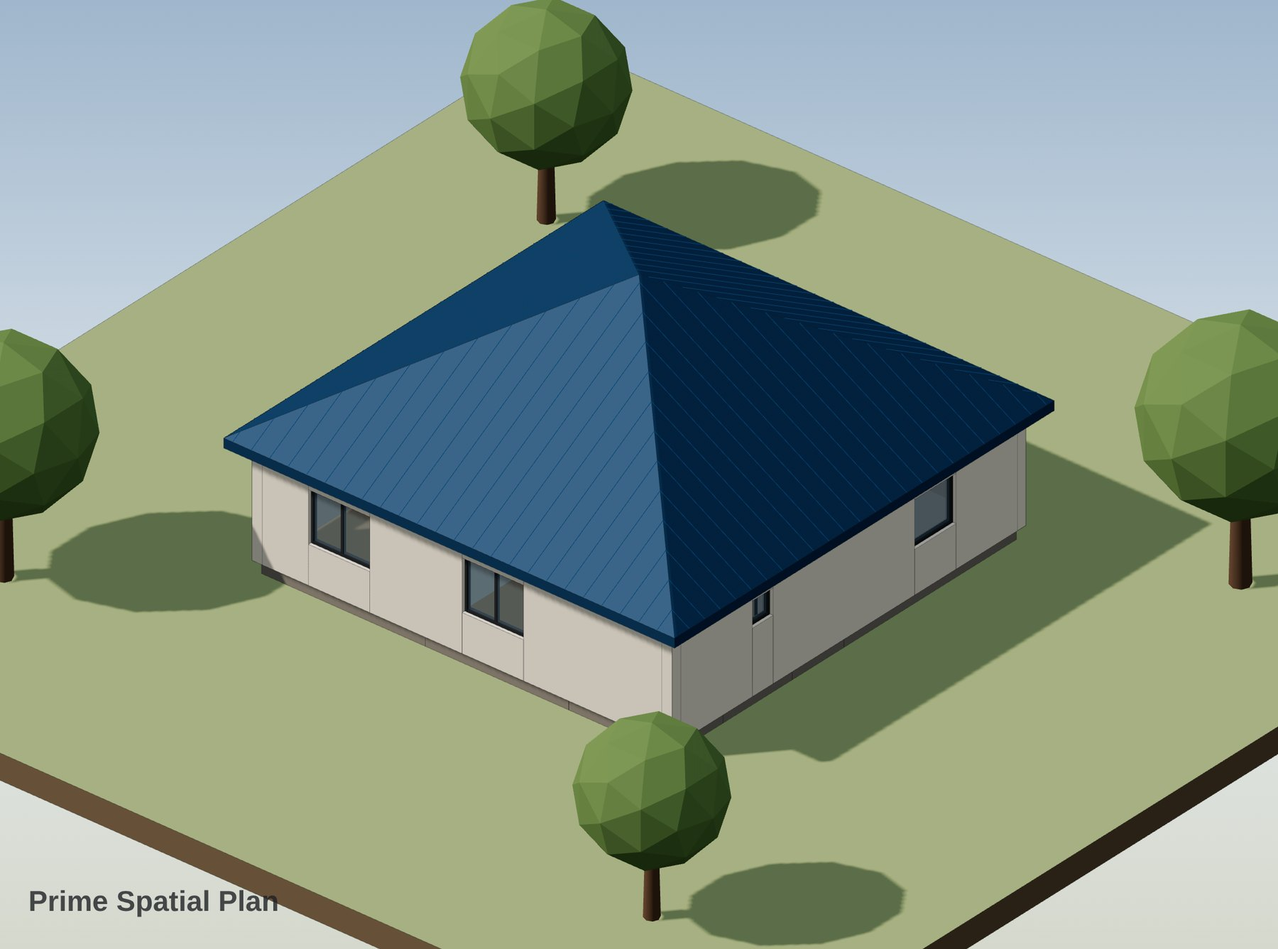
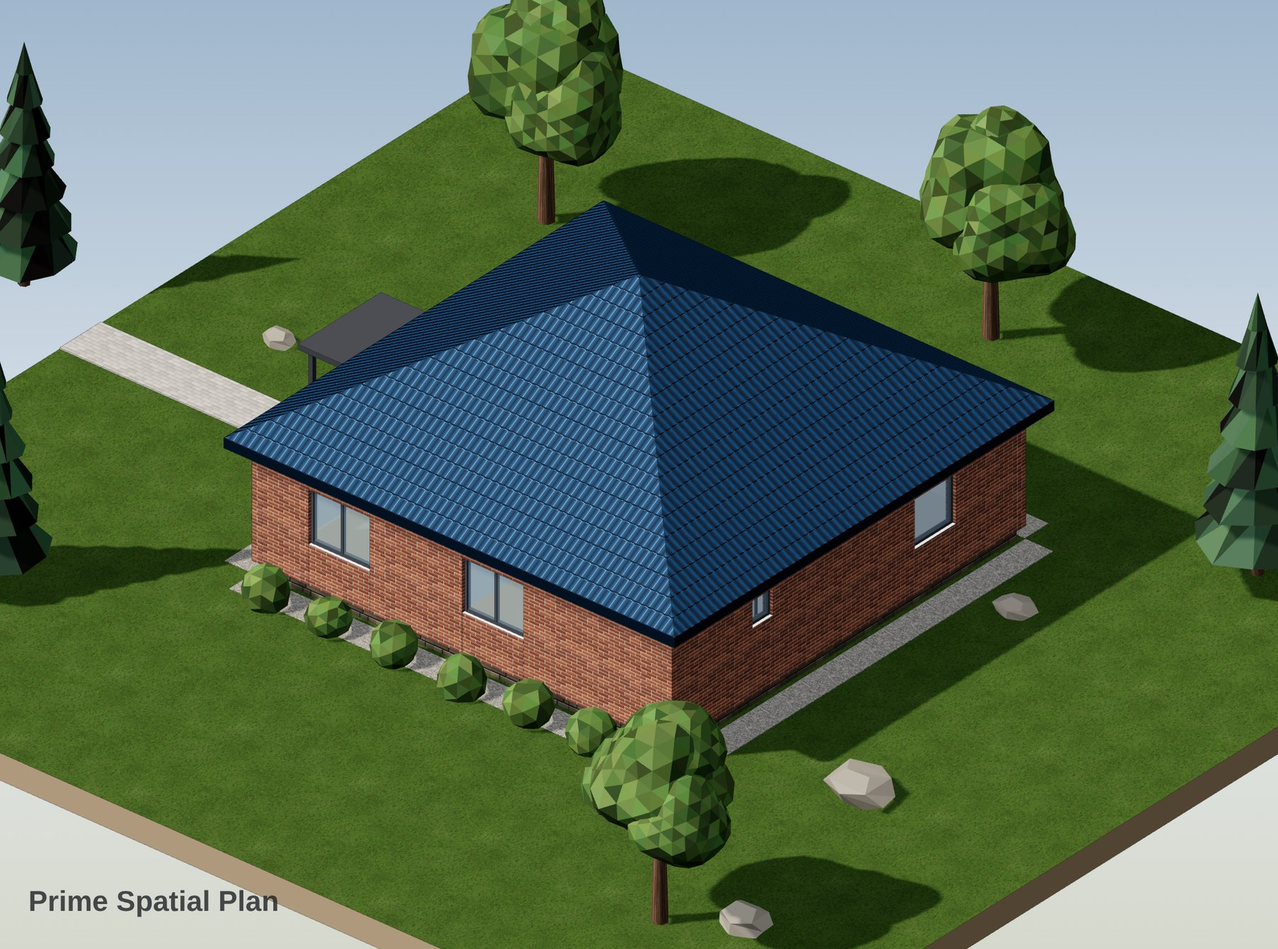
3D: eye-level perspective with sky, forest and haze; dark timber + stone facade, decking, gravel, boulders; plan renders updated
Claude-Session: https://claude.ai/code/session_01UG1vAo71nibs4gLHwPWaPt

diff --git a/assets/planner3d.js b/assets/planner3d.js
@@ -5,7 +5,7 @@
 import * as THREE from './vendor/three.module.min.js';
 import {OrbitControls} from './vendor/OrbitControls.js';
 import {RoomEnvironment} from './vendor/RoomEnvironment.js';
-import {T, FACADE_FLAT} from './planner-tex.js?v=1';
+import {T, FACADE_FLAT} from './planner-tex.js?v=2';
 
 const FH = 3, SL = .25, PL = .3, T30 = Math.tan(30 * Math.PI / 180);
 const near = (a, b) => Math.abs(a - b) < 1e-4;
@@ -17,10 +17,11 @@ export function create(canvas, ui){
   renderer.shadowMap.enabled = true; renderer.shadowMap.type = THREE.PCFSoftShadowMap;
   renderer.outputColorSpace = THREE.SRGBColorSpace;
   const scene = new THREE.Scene();
-  const cam = new THREE.OrthographicCamera(-10, 10, 10, -10, -1000, 2000);
+  const ocam = new THREE.OrthographicCamera(-10, 10, 10, -10, -1000, 2000), pcam = new THREE.PerspectiveCamera(36, 1, .1, 1500);
+  let cam = ocam, persp = false;
   const ctl = new OrbitControls(cam, canvas);
   ctl.enableDamping = true; ctl.dampingFactor = .12; ctl.maxPolarAngle = Math.PI * .5; ctl.screenSpacePanning = true;
-  ctl.minZoom = .3; ctl.maxZoom = 8; ctl.rotateSpeed = .8;
+  ctl.minZoom = .3; ctl.maxZoom = 8; ctl.rotateSpeed = .8; ctl.minDistance = 4; ctl.maxDistance = 160;
   const hemi = new THREE.HemisphereLight(0xe8eef5, 0x8d8f80, 1.15); scene.add(hemi);
   const amb = new THREE.AmbientLight(0xffffff, 0); scene.add(amb);
   const sun = new THREE.DirectionalLight(0xfff1df, 2.3); sun.castShadow = true;
@@ -28,7 +29,7 @@ export function create(canvas, ui){
   scene.add(sun, sun.target);
   const pmrem = new THREE.PMREMGenerator(renderer), envTex = pmrem.fromScene(new RoomEnvironment(), .04).texture;
   let root = new THREE.Group(); scene.add(root);
-  let MODEL = null, ENTRIES = [], PAVED = [];
+  let MODEL = null, ENTRIES = [], PAVED = [], PERIM = [];
   let frustum = 24, fbase = 24, fitted = false, M = null, LM = null, anim = null;
   const memo = {};
 
@@ -51,7 +52,8 @@ export function create(canvas, ui){
     const rm = m.roof.mat || 'seam', vc = (c) => hid ? new THREE.MeshBasicMaterial({color:'#ffffff', polygonOffset:true, polygonOffsetFactor:1, polygonOffsetUnits:1})
       : real ? new THREE.MeshStandardMaterial({vertexColors:true, flatShading:true, roughness:.95, envMapIntensity:.25}) : new THREE.MeshLambertMaterial({vertexColors:true, flatShading:true});
     const R = {
-      F:{plaster:tx('plaster', FACADE_FLAT.plaster), brick:tx('brick', FACADE_FLAT.brick, {roughness:.92}), wood:tx('wood', FACADE_FLAT.wood, {roughness:.7}), stone:tx('stone', FACADE_FLAT.stone)},
+      F:{plaster:tx('plaster', FACADE_FLAT.plaster), brick:tx('brick', FACADE_FLAT.brick, {roughness:.92}), wood:tx('wood', FACADE_FLAT.wood, {roughness:.7}), stone:tx('stone', FACADE_FLAT.stone), timber:tx('timber', FACADE_FLAT.timber, {roughness:.8})},
+      gravel:tx('gravel', '#c9c6bf', {roughness:1, env:.2}), deck:tx('deck', '#c9a77c', {roughness:.8}), rock:real ? new THREE.MeshStandardMaterial({color:'#9b968d', roughness:.95, flatShading:true, envMapIntensity:.3}) : mk('#c9c5bd', {flatShading:true}),
       porch:tx('stone', '#d4cfc6', {tint:'#e4e0d8'}), canopy:mk(real ? '#33363b' : '#55595f', {roughness:.5}),
       leaf:vc(), conifer:vc(),
       wallExt: mk(real ? '#efe8dc' : '#f1eee8', {roughness:.92}),
@@ -69,7 +71,7 @@ export function create(canvas, ui){
       rail: mk(real ? '#f2eee7' : '#f1eee8'),
       roof: tx(rm, m.roof.color, {tint:m.roof.color, roughness:rm === 'shingle' ? .9 : .42, metalness:rm === 'shingle' ? 0 : .45, side:THREE.DoubleSide, env:.7}),
       seam: new THREE.LineBasicMaterial({color:hid ? '#9a9da2' : new THREE.Color(m.roof.color).multiplyScalar(.62), transparent:true, opacity:hid ? .6 : .9}),
-      grass: real ? tx('grass', '#dfe3d6', {roughness:1, env:.15, tint:'#c4cab4'}) : mk('#dfe3d6', {hid:'#ffffff'}),
+      grass: real ? tx('grass', '#dfe3d6', {roughness:1, env:.15, tint:'#aab494'}) : mk('#dfe3d6', {hid:'#ffffff'}),
       earth: mk(real ? '#7b6a55' : '#c9c1b4', {roughness:1, hid:'#ffffff'}),
       pave: tx('pavers', '#d2cfc8', {roughness:.95}),
       trunk: tx('bark', '#a9998a'),
@@ -158,7 +160,13 @@ export function create(canvas, ui){
         if(r.type === 'rail'){ wbox(L.ori, L.c, a, b, t, z0, z0 + Math.min(1.05, H), mat); return; }
         const o = r.op, ext = r.type === 'ext', ct = cutTop ? M.cut : null;
         const piece = (y0, y1, top) => ext ? ewall(L.ori, L.c, a, b, t, y0, y1, r.side, i, top ? ct : null) : wbox(L.ori, L.c, a, b, t, y0, y1, top ? mat : wm);
-        if(!o){ piece(z0, z0 + H, true); return; }
+        if(ext && i === 0) PERIM.push({ori:L.ori, c:L.c, a:r.a, b:r.b, out:-(r.side || 1)});
+        if(!o){
+          if(ext && MODEL.facade === 'timber' && r.b - r.a > 1.3){ const cw = Math.min(.9, (r.b - r.a) / 2 - .1), sa = !prev ? a + cw : a, sb = !next ? b - cw : b;
+            if(!prev) wbox(L.ori, L.c, a, sa, t, z0, z0 + H, extMats(L.ori, r.side, M.F.stone, cutTop ? M.cut : null));
+            if(!next) wbox(L.ori, L.c, sb, b, t, z0, z0 + H, extMats(L.ori, r.side, M.F.stone, cutTop ? M.cut : null));
+            wbox(L.ori, L.c, sa, sb, t, z0, z0 + H, extMats(L.ori, r.side, M.F.timber, cutTop ? M.cut : null)); return; }
+          piece(z0, z0 + H, true); return; }
         const s = Math.min(o.s, H), hd = Math.min(o.h, H);
         if(ext && i === 0 && o.k === 'door') ENTRIES.push({ori:L.ori, c:L.c, a:r.a, b:r.b, out:-(r.side || 1), h:o.h});
         if(s > 0) piece(z0, z0 + s, s >= H);
@@ -247,9 +255,10 @@ export function create(canvas, ui){
   function porch(e, b, pad){
     const w = e.b - e.a, cu = (e.a + e.b) / 2, W = Math.max(w + 1.2, 2), D = 1.4, o = e.out;
     const c0 = e.c + o * .125, c1 = c0 + o * D, c2 = c1 + o * .32, c3 = c2 + o * .32;
-    prect(e.ori, cu - W / 2, cu + W / 2, c0, c1, -PL, 0, M.porch);
-    prect(e.ori, cu - W / 2, cu + W / 2, c1, c2, -PL, -.1, M.porch);
-    prect(e.ori, cu - W / 2, cu + W / 2, c2, c3, -PL, -.2, M.porch);
+    const pm = MODEL.facade === 'timber' || MODEL.facade === 'wood' ? M.deck : M.porch; if(pm === M.deck) PAVED.push(e.ori === 'h' ? [cu - W / 2, cu + W / 2, Math.min(c0, c3), Math.max(c0, c3)] : [Math.min(c0, c3), Math.max(c0, c3), cu - W / 2, cu + W / 2]);
+    prect(e.ori, cu - W / 2, cu + W / 2, c0, c1, -PL, 0, pm);
+    prect(e.ori, cu - W / 2, cu + W / 2, c1, c2, -PL, -.1, pm);
+    prect(e.ori, cu - W / 2, cu + W / 2, c2, c3, -PL, -.2, pm);
     const ch = Math.max(e.h + .3, 2.45);
     prect(e.ori, cu - W / 2 - .1, cu + W / 2 + .1, c0, c1 + o * .15, ch, ch + .12, M.canopy);
     [-1, 1].forEach(k => prect(e.ori, cu + k * (W / 2 - .05) - .05, cu + k * (W / 2 - .05) + .05, c1 - o * .02, c1 - o * .12, 0, ch, M.canopy));
@@ -270,22 +279,39 @@ export function create(canvas, ui){
     const y0 = -PL;
     if(kind === 'conifer'){
       part(new THREE.CylinderGeometry(.08 * s, .13 * s, 1.2 * s, 7), M.trunk, x, y0 + .6 * s, z, false);
-      for(let k = 0; k < 4; k++){ const g = paint(lumpy(new THREE.ConeGeometry((1.25 - .27 * k) * s, 1.55 * s, 9, 2).toNonIndexed(), seed + k, .06), '#3c5a37', seed * 7 + k);
-        part(g, M.conifer, x, y0 + (1.35 + k * .82) * s, z, edges); }
+      for(let k = 0; k < 6; k++){ const g = paint(lumpy(new THREE.ConeGeometry((1.15 - .16 * k) * s, 1.3 * s, 10, 2).toNonIndexed(), seed + k, .07), '#34503a', seed * 7 + k);
+        part(g, M.conifer, x, y0 + (1.4 + k * .7) * s, z, edges); }
       return; }
     part(new THREE.CylinderGeometry(.09 * s, .15 * s, 2 * s, 7), M.trunk, x, y0 + s, z, false);
     const r = rnd(seed); [[0, 2.75, 0, 1.15], [.62, 2.35, .25, .82], [-.55, 2.45, -.3, .86], [.1, 3.3, -.15, .78]].forEach((q, k) => {
-      const g = paint(lumpy(new THREE.IcosahedronGeometry(q[3] * s * (.9 + r() * .2), 2), seed + k * 3, .13), '#5c7d3c', seed * 13 + k);
+      const g = paint(lumpy(new THREE.IcosahedronGeometry(q[3] * s * (.9 + r() * .2), 3), seed + k * 3, .13), '#56743a', seed * 13 + k);
       part(g, M.leaf, x + q[0] * s, y0 + q[1] * s, z + q[2] * s, edges); });
   }
   function free(x, z, rad, b){ if(x > b[0] - rad && x < b[2] + rad && z > b[1] - rad && z < b[3] + rad) return false;
     return !PAVED.some(p => x > p[0] - rad && x < p[1] + rad && z > p[2] - rad && z < p[3] + rad); }
+  /* a ring of spruce and pine behind and around the plot, instanced */
+  function forest(b, pad){
+    const parts = [], r = rnd(91);
+    for(let k = 0; k < 7; k++){ const g = lumpy(new THREE.ConeGeometry(1.15 - .15 * k, 1.3, 9, 1).toNonIndexed(), 5 + k, .07); g.translate(0, 1.5 + k * .72, 0); paint(g, '#2f4a33', 40 + k); parts.push(g); }
+    const pos = [], col = []; parts.forEach(g => { pos.push(...g.attributes.position.array); col.push(...g.attributes.color.array); });
+    const cg = new THREE.BufferGeometry(); cg.setAttribute('position', new THREE.Float32BufferAttribute(pos, 3)); cg.setAttribute('color', new THREE.Float32BufferAttribute(col, 3)); cg.computeVertexNormals();
+    const tg = new THREE.CylinderGeometry(.07, .12, 2, 6); tg.translate(0, 1, 0);
+    const cx = (b[0] + b[2]) / 2, cz = (b[1] + b[3]) / 2, R0 = Math.max(b[2] - b[0], b[3] - b[1]) / 2 + pad + 5, list = [];
+    for(let i = 0; i < 240 && list.length < 140; i++){ const an = r() * Math.PI * 2, d = R0 + 2 + r() * 38, x = cx + Math.cos(an) * d, z = cz + Math.sin(an) * d;
+      if(z > cz + 4 && Math.abs(x - cx) < R0 + 6 && d < R0 + 24) continue; list.push([x, z, 1.6 + r() * 2.4, r() * 6]); }
+    const im = new THREE.InstancedMesh(cg, M.conifer, list.length), it = new THREE.InstancedMesh(tg, M.trunk, list.length), mt = new THREE.Matrix4(), q = new THREE.Quaternion(), sc = new THREE.Vector3(), p = new THREE.Vector3();
+    list.forEach((t, i) => { q.setFromAxisAngle(new THREE.Vector3(0, 1, 0), t[3]); sc.set(t[2] * .75, t[2] * 1.45, t[2] * .75); p.set(t[0], -PL, t[1]); mt.compose(p, q, sc); im.setMatrixAt(i, mt); it.setMatrixAt(i, mt); });
+    im.castShadow = false; root.add(im, it);
+  }
   function landscape(b, pad, m){
     const edges = m.style !== 'realistic';
     const spots = [[b[0] - 4, b[1] - 3, 1.25, 'leaf'], [b[2] + 4.2, b[1] - 2, 1.1, 'conifer'], [b[2] + 3.6, b[3] + 4.6, 1.15, 'leaf'], [b[0] - 3.8, b[3] + 3.4, 1.0, 'conifer'],
       [b[0] - 5.5, (b[1] + b[3]) / 2, .95, 'conifer'], [(b[0] + b[2]) / 2, b[1] - 5.2, 1.2, 'leaf']];
     spots.forEach((q, k) => { let [x, z] = q; for(let t = 0; t < 6 && !free(x, z, 1.4, b); t++){ x += (x < (b[0] + b[2]) / 2 ? -1 : 1) * .9; }
       if(free(x, z, 1.4, b)) tree(x, z, q[2], q[3], 17 + k * 31, edges); });
+    /* boulders */
+    const rr = rnd(57); for(let k = 0; k < 7; k++){ const x = b[0] - pad + 1 + rr() * (b[2] - b[0] + 2 * pad - 2), z = b[1] - pad + 1 + rr() * (b[3] - b[1] + 2 * pad - 2), s = .25 + rr() * .45;
+      if(!free(x, z, 1, b)) continue; const g = lumpy(new THREE.DodecahedronGeometry(s, 0), k * 7, .2); g.scale(1.3, .6, 1); part(g, M.rock, x, -PL + s * .25, z, edges); }
     /* shrubs along the front facade, clear of paths */
     for(let x = b[0] + .7; x < b[2] - .5; x += 1.6){ const z = b[3] + .75;
       if(PAVED.some(p => x > p[0] - .7 && x < p[1] + .7 && z > p[2] - .7 && z < p[3] + .7)) continue;
@@ -297,7 +323,8 @@ export function create(canvas, ui){
     root.traverse(o => { if(o.geometry) o.geometry.dispose(); });
     scene.remove(root); root = new THREE.Group(); scene.add(root);
     if(M) Object.values(M).forEach(x => { if(x && x.dispose) x.dispose(); });
-    MODEL = m; ENTRIES = []; PAVED = [];
+    MODEL = m; ENTRIES = []; PAVED = []; PERIM = [];
+    persp = !!m.persp; cam = persp ? pcam : ocam; ctl.object = cam;
     m.nfl = m.floors.filter(f => f.rooms.some(r => r.type !== 'balcony')).length || 1;
     M = mats(m.style, m);
     LM = new THREE.LineBasicMaterial({color:'#1b1d21', transparent:true, opacity:m.style === 'realistic' ? .3 : m.style === 'shaded' ? .8 : 1});
@@ -318,7 +345,7 @@ export function create(canvas, ui){
 
     /* site pad, trees, paving */
     const pad = 8;
-    const site = box(b[0] - pad, b[2] + pad, -PL - .6, -PL, b[1] - pad, b[3] + pad, [M.earth, M.earth, M.grass, M.earth, M.earth, M.earth], {cast:false});
+    const site = (persp && real) ? null : box(b[0] - pad, b[2] + pad, -PL - .6, -PL, b[1] - pad, b[3] + pad, [M.earth, M.earth, M.grass, M.earth, M.earth, M.earth], {cast:false, noEdge:persp});
     if(site) site.receiveShadow = true;
     if(m.floors[0]) m.floors[0].ops.forEach(o => {
       if(o.k !== 'garage') return;
@@ -340,13 +367,22 @@ export function create(canvas, ui){
     });
     if(!m.cut && top >= 0) roof(m, top, top * FH + FH);
     if(m.porch) ENTRIES.forEach(e => porch(e, b, pad));
+    /* gravel drip strip around the ground floor */
+    if(real) PERIM.forEach(e => prect(e.ori, e.a - .1, e.b + .1, e.c + e.out * .13, e.c + e.out * .8, -PL, -PL + .02, M.gravel, {cast:false, noEdge:true}));
     landscape(b, pad, m);
+    /* eye-level surroundings: far lawn, forest, sky and haze */
+    scene.background = null; scene.fog = null;
+    if(persp && real){ scene.background = T('sky').map; scene.fog = new THREE.Fog('#dfe7ec', 28, 150);
+      const gg = new THREE.PlaneGeometry(600, 600); gg.rotateX(-Math.PI / 2); const gm = new THREE.Mesh(gg, M.grass); gm.position.set((b[0] + b[2]) / 2, -PL, (b[1] + b[3]) / 2); wuv(gg, gm.position); gm.receiveShadow = true; root.add(gm);
+      forest(b, pad); }
 
     /* camera and sun fit */
     const cx = (b[0] + b[2]) / 2, cz = (b[1] + b[3]) / 2, hgt = (top + 1) * FH + 2, diag = Math.hypot(b[2] - b[0] + 2 * pad, b[3] - b[1] + 2 * pad, hgt);
     sun.position.set(cx - 22, 34, cz + 26); sun.target.position.set(cx, 0, cz);
     const sc = sun.shadow.camera, ss = diag * .75; sc.left = -ss; sc.right = ss; sc.top = ss; sc.bottom = -ss; sc.near = 1; sc.far = 140; sc.updateProjectionMatrix();
     const key = [b.map(v => Math.round(v)).join(','), top].join('|');
+    memo.pd = Math.max(16, Math.hypot(b[2] - b[0], b[3] - b[1]) * 1.55 + 6);
+    if(memo.persp !== persp){ memo.persp = persp; if(fitted){ size(); home(false, cx, hgt * .3, cz); } }
     if(!fitted || key !== memo.key){ fbase = Math.max(11, Math.hypot(b[2] - b[0], b[3] - b[1], hgt) * 1.18); if(!fitted) home(false, cx, hgt * .3, cz); fitted = true; }
     memo.key = key; memo.center = [cx, hgt * .3, cz];
     size(); req();
@@ -354,7 +390,7 @@ export function create(canvas, ui){
 
   /* ---------- camera ---------- */
   function setDir(dir, animate){
-    const tgt = ctl.target.clone(), dist = 120, to = tgt.clone().add(dir.clone().normalize().multiplyScalar(dist));
+    const tgt = ctl.target.clone(), dist = persp ? (memo.pd || 30) : 120, to = tgt.clone().add(dir.clone().normalize().multiplyScalar(dist));
     if(!animate){ cam.position.copy(to); cam.up.set(0, 1, 0); cam.lookAt(tgt); ctl.update(); req(); return; }
     const from = cam.position.clone().sub(tgt), f2 = to.clone().sub(tgt), t0 = performance.now();
     anim = () => { const k = Math.min(1, (performance.now() - t0) / 450), e = k < .5 ? 2 * k * k : 1 - Math.pow(-2 * k + 2, 2) / 2;
@@ -365,12 +401,15 @@ export function create(canvas, ui){
   function home(animate, x, y, z){
     if(x !== undefined) ctl.target.set(x, y, z); else if(memo.center) ctl.target.set(...memo.center);
     cam.zoom = 1; cam.updateProjectionMatrix();
+    if(persp){ ctl.target.y = 1.6; setDir(new THREE.Vector3(Math.sin(.62), .17, Math.cos(.62)), animate); return; }
     setDir(new THREE.Vector3(Math.sin(.7), .62, Math.cos(.7)), animate);
   }
   function size(){
     const r = canvas.parentElement.getBoundingClientRect(), w = Math.max(10, r.width), h = Math.max(10, r.height), a = w / h;
     frustum = a < 1.1 ? fbase * 1.1 / a * .82 : fbase;
     renderer.setSize(w, h, false);
+    pcam.aspect = a; pcam.fov = a < 1 ? 58 : 36; pcam.updateProjectionMatrix();
+    cam = persp ? pcam : ocam; if(persp) return;
     cam.left = -frustum * a / 2; cam.right = frustum * a / 2; cam.top = frustum / 2; cam.bottom = -frustum / 2; cam.updateProjectionMatrix();
   }
   let pending = false;

diff --git a/assets/planner.js b/assets/planner.js
@@ -22,7 +22,7 @@
         confirmClear:'Дахин дарж бүх зургийг устгана', saved:'Хадгалагдсан', addFloor:'+ Давхар', delFloor:'Давхар устгах',
         door:'Хаалга', win:'Цонх', garage:'Гаражийн хаалга', doors:'Хаалга', wins:'Цонх', roof:'Дээвэр', autoOn:'Автомат байрлал',
         rt:{auto:'Автомат', gable:'Хоёр налуу', hip:'Дөрвөн налуу', flat:'Хавтгай'},
-        fc:{auto:'Автомат (тоосго + шавардлага)', plaster:'Шавардлага', brick:'Тоосго', wood:'Модон өнгөлгөө', stone:'Чулуун өнгөлгөө'},
+        fc:{auto:'Автомат (тоосго + шавардлага)', plaster:'Шавардлага', brick:'Тоосго', wood:'Модон өнгөлгөө', timber:'Хар мод + чулуун булан', stone:'Чулуун өнгөлгөө'},
         rm:{seam:'Төмөр хавтан', tile:'Металл ваар', shingle:'Битум ширгэл'},
         hint:{draw:'Тор дээр чирж өрөө зурна · өрөөн дээр дарж сонгоно · хоёр хуруугаар томруулна', door:'Хананд дарж хаалга нэмнэ · хаалган дээр дарж сонгоно', win:'Хананд дарж цонх нэмнэ · цонхон дээр дарж сонгоно', select:'Өрөө, хаалга, цонхыг дарж сонгоод чирж зөөнө', d3:'Чирж эргүүлнэ · хоёр хуруугаар томруулж, зөөнө · баруун дээд кубаас харагдац сонгоно'},
         vc:{top:'ДЭЭР', front:'УРД', right:'БАРУУН', back:'АР', left:'ЗҮҮН'}},
@@ -31,7 +31,7 @@
         confirmClear:'Tap again to clear everything', saved:'Saved', addFloor:'+ Floor', delFloor:'Delete floor',
         door:'Door', win:'Window', garage:'Garage door', doors:'Doors', wins:'Windows', roof:'Roof', autoOn:'Auto layout',
         rt:{auto:'Auto', gable:'Gable', hip:'Hip', flat:'Flat'},
-        fc:{auto:'Auto (brick + render)', plaster:'Render', brick:'Brick', wood:'Timber cladding', stone:'Stone cladding'},
+        fc:{auto:'Auto (brick + render)', plaster:'Render', brick:'Brick', wood:'Timber cladding', timber:'Dark timber + stone corners', stone:'Stone cladding'},
         rm:{seam:'Standing seam metal', tile:'Metal tile', shingle:'Asphalt shingles'},
         hint:{draw:'Drag on the grid to draw a room · tap a room to select it · pinch or scroll to zoom', door:'Tap a wall to add a door · tap a door to select it', win:'Tap a wall to add a window · tap a window to select it', select:'Tap a room, door or window to select it, drag to move', d3:'Drag to orbit · pinch or scroll to zoom, two fingers to pan · pick a view on the cube'},
         vc:{top:'TOP', front:'FRONT', right:'RIGHT', back:'BACK', left:'LEFT'}}
@@ -50,7 +50,7 @@
   };
   var uid = 1;
   function ids(s){ s.floors.forEach(function(f){ f.rooms.concat(f.ops || []).forEach(function(r){ if(!r.id) r.id = uid++; else uid = Math.max(uid, r.id + 1); }); }); return s; }
-  var ROOFC = ['#8e3b2e', '#3f6b4e', '#2f5d86', '#55595f'];
+  var ROOFC = ['#8e3b2e', '#3f6b4e', '#2f5d86', '#55595f', '#2b2d31'];
   function defaults(s){ if(!s.roof) s.roof = {type:'auto', color:ROOFC[0]}; if(!s.roof.mat) s.roof.mat = 'seam'; if(!s.facade) s.facade = 'auto'; if(s.porch === undefined) s.porch = true; if(!s.v3) s.v3 = {style:'realistic', shadows:true, cut:false}; return s; }
 
   /* ---------- state ---------- */
@@ -314,17 +314,17 @@
     var b = [1e9, 1e9, -1e9, -1e9]; top.rooms.forEach(function(r){ if(r.type === 'balcony') return; b[0] = Math.min(b[0], r.x); b[1] = Math.min(b[1], r.y); b[2] = Math.max(b[2], r.x + r.w); b[3] = Math.max(b[3], r.y + r.h); });
     var L = Math.max(b[2] - b[0], b[3] - b[1]), D = Math.min(b[2] - b[0], b[3] - b[1]); return L / D < 1.3 ? 'hip' : 'gable'; }
   function model3(){ var colors = {}; TYPES.forEach(function(ty){ colors[ty.id] = ty.c; });
-    return {floors:state.floors.map(function(f, i){ return {rooms:f.rooms, ops:opsOf(i)}; }), cur:cur, cut:!!state.v3.cut, style:state.v3.style, shadows:state.v3.shadows,
+    return {floors:state.floors.map(function(f, i){ return {rooms:f.rooms, ops:opsOf(i)}; }), cur:cur, cut:!!state.v3.cut, style:state.v3.style, shadows:state.v3.shadows, persp:!!state.v3.persp,
       roof:{type:roofType(), color:state.roof.color, mat:state.roof.mat}, facade:state.facade === 'auto' ? 'mixed' : state.facade, porch:state.porch !== false, colors:colors}; }
   function bar3(){ document.querySelectorAll('[data-vs]').forEach(function(b){ b.setAttribute('aria-pressed', b.dataset.vs === state.v3.style ? 'true' : 'false'); });
-    $('plShadow').setAttribute('aria-pressed', state.v3.shadows ? 'true' : 'false'); $('plCut').setAttribute('aria-pressed', state.v3.cut ? 'true' : 'false'); }
+    $('plShadow').setAttribute('aria-pressed', state.v3.shadows ? 'true' : 'false'); $('plCut').setAttribute('aria-pressed', state.v3.cut ? 'true' : 'false'); $('plPersp').setAttribute('aria-pressed', state.v3.persp ? 'true' : 'false'); }
   function draw3d(){
     bar3();
     if(r3state === 2){ r3.update(model3()); return; }
     if(r3state === 3){ drawLegacy(); return; }
     if(r3state === 1) return;
     r3state = 1;
-    import(new URL('assets/planner3d.js?v=3', location.href).href).then(function(m){
+    import(new URL('assets/planner3d.js?v=4', location.href).href).then(function(m){
       r3 = m.create(cv, {cube:$('plCube')}); r3state = 2; window.PSP3D = r3; if(view === '3d') r3.update(model3());
     }).catch(function(err){ console.warn('3D fallback', err); r3state = 3; if(view === '3d') drawLegacy(); });
   }
@@ -480,6 +480,7 @@
   document.querySelectorAll('[data-vs]').forEach(function(b){ b.onclick = function(){ state.v3.style = b.dataset.vs; save(); draw3d(); }; });
   $('plShadow').onclick = function(){ state.v3.shadows = !state.v3.shadows; save(); draw3d(); };
   $('plCut').onclick = function(){ state.v3.cut = !state.v3.cut; save(); draw3d(); };
+  $('plPersp').onclick = function(){ state.v3.persp = !state.v3.persp; if(state.v3.persp) state.v3.style = 'realistic'; save(); draw3d(); };
   document.querySelectorAll('#plCube [data-v], #plHome').forEach(function(f){ f.onclick = function(){ if(r3state === 2) r3.view(f.dataset.v || 'home'); }; });
   addEventListener('psp-theme', function(){ if(view === '3d') draw3d(); });
   P.on(function(){ changed(); });

diff --git a/assets/planner-tex.js b/assets/planner-tex.js
@@ -94,6 +94,35 @@ const MAKERS = {
       h.fillStyle = '#bbb'; h.fillRect(x, y, tw - 4, rh - 3); }
     speckle(g, 512, 512, r, 16000, .35);
     return {map:tex(c, [1, .7]), bump:tex(b, [1, .7], false), bs:2}; },
+  /* dark vertical timber boards, 120 mm, Scandinavian style */
+  timber(){ const [c, g] = cv(512, 512), [b, h] = cv(512, 512), r = rng(21), n = 8, bw = 512 / n, pal = ['#2f2b27', '#35302b', '#2a2622', '#3a342e'];
+    h.fillStyle = '#cccccc'; h.fillRect(0, 0, 512, 512);
+    for(let i = 0; i < n; i++){ const x = i * bw; g.fillStyle = pal[Math.floor(r() * pal.length)]; g.fillRect(x, 0, bw, 512);
+      for(let k = 0; k < 26; k++){ const xx = x + r() * bw, a = .04 + r() * .08; g.strokeStyle = r() < .5 ? `rgba(0,0,0,${a})` : `rgba(200,180,150,${a * .5})`; g.lineWidth = .6 + r();
+        g.beginPath(); g.moveTo(xx, 0); for(let y = 0; y <= 512; y += 32) g.lineTo(xx + Math.sin(y * .02 + k) * 1.2, y); g.stroke(); }
+      g.fillStyle = 'rgba(0,0,0,.6)'; g.fillRect(x + bw - 4, 0, 4, 512); g.fillStyle = 'rgba(255,255,255,.06)'; g.fillRect(x, 0, 2, 512); h.fillStyle = '#333'; h.fillRect(x + bw - 4, 0, 4, 512); }
+    return {map:tex(c, [.96, 1.6]), bump:tex(b, [.96, 1.6], false), bs:2.5}; },
+  /* pea gravel */
+  gravel(){ const [c, g] = cv(512, 512), [b, h] = cv(512, 512), r = rng(14);
+    g.fillStyle = '#8c8a85'; g.fillRect(0, 0, 512, 512); h.fillStyle = '#555'; h.fillRect(0, 0, 512, 512);
+    for(let i = 0; i < 7000; i++){ const x = r() * 512, y = r() * 512, rx = 2 + r() * 4, ry = 1.5 + r() * 3, v = 120 + Math.floor(r() * 110);
+      g.fillStyle = `rgb(${v},${v - 3},${v - 8})`; g.beginPath(); g.ellipse(x, y, rx, ry, r() * 3, 0, 7); g.fill();
+      h.fillStyle = `rgb(${v + 40},${v + 40},${v + 40})`; h.beginPath(); h.ellipse(x, y, rx, ry, 0, 0, 7); h.fill(); }
+    return {map:tex(c, [1.2, 1.2]), bump:tex(b, [1.2, 1.2], false), bs:2}; },
+  /* decking boards */
+  deck(){ const [c, g] = cv(512, 512), [b, h] = cv(512, 512), r = rng(15), n = 7, bh = 512 / n;
+    h.fillStyle = '#ccc'; h.fillRect(0, 0, 512, 512);
+    for(let j = 0; j < n; j++){ const y = j * bh; g.fillStyle = ['#b08a62', '#a98259', '#b8946a'][j % 3]; g.fillRect(0, y, 512, bh);
+      for(let k = 0; k < 30; k++){ const yy = y + r() * bh; g.strokeStyle = `rgba(80,50,25,${.05 + r() * .1})`; g.lineWidth = .7; g.beginPath(); g.moveTo(0, yy); g.lineTo(512, yy + (r() - .5) * 3); g.stroke(); }
+      g.fillStyle = 'rgba(40,25,10,.55)'; g.fillRect(0, y + bh - 4, 512, 4); h.fillStyle = '#333'; h.fillRect(0, y + bh - 4, 512, 4); }
+    return {map:tex(c, [1, .98]), bump:tex(b, [1, .98], false), bs:1.5}; },
+  /* sky with soft clouds (screen background) */
+  sky(){ const [c, g] = cv(1024, 512), r = rng(31), gr = g.createLinearGradient(0, 0, 0, 512);
+    gr.addColorStop(0, '#5f8fc0'); gr.addColorStop(.55, '#a9c6e0'); gr.addColorStop(1, '#e6eef3'); g.fillStyle = gr; g.fillRect(0, 0, 1024, 512);
+    for(let i = 0; i < 26; i++){ const cx = r() * 1024, cy = 60 + r() * 260, w = 80 + r() * 200;
+      for(let k = 0; k < 14; k++){ const x = cx + (r() - .5) * w, y = cy + (r() - .5) * w * .22, rad = 18 + r() * 46, a = .1 + r() * .16;
+        const rg = g.createRadialGradient(x, y, 0, x, y, rad); rg.addColorStop(0, `rgba(255,255,255,${a})`); rg.addColorStop(1, 'rgba(255,255,255,0)'); g.fillStyle = rg; g.fillRect(x - rad, y - rad, rad * 2, rad * 2); } }
+    const t = new THREE.CanvasTexture(c); t.colorSpace = THREE.SRGBColorSpace; return {map:t}; },
   bark(){ const [c, g] = cv(128, 256), r = rng(6); g.fillStyle = '#5d4636'; g.fillRect(0, 0, 128, 256);
     for(let i = 0; i < 160; i++){ g.strokeStyle = r() < .5 ? 'rgba(25,15,8,.5)' : 'rgba(150,120,95,.35)'; g.lineWidth = 1 + r() * 2; const x = r() * 128;
       g.beginPath(); g.moveTo(x, r() * 256); g.lineTo(x + (r() - .5) * 6, r() * 256); g.stroke(); }
@@ -106,5 +135,5 @@ const MAKERS = {
 function blotchRect(g, x, y, w, h, r){ const gr = g.createLinearGradient(x, y, x + w, y + h); gr.addColorStop(0, `rgba(255,255,255,${.08 * r()})`); gr.addColorStop(1, `rgba(0,0,0,${.12 * r()})`); g.fillStyle = gr; g.fillRect(x, y, w, h); }
 
 export function T(name){ if(!cache[name]) cache[name] = MAKERS[name](); return cache[name]; }
-export const FACADE_FLAT = {plaster:'#efe9df', brick:'#a8634a', wood:'#9b6c45', stone:'#aaa396'};
+export const FACADE_FLAT = {plaster:'#efe9df', brick:'#a8634a', wood:'#9b6c45', stone:'#aaa396', timber:'#3a3530'};
 export {shade};

diff --git a/assets/plans.js b/assets/plans.js
@@ -32,7 +32,7 @@ window.PSP_PLAN_OPTIONS = {
       title:{mn:'Нэг давхар амины сууц, 2 унтлагын өрөө', en:'Single-storey house, 2 bedrooms'},
       lead:{mn:'Нэг давхарт багтсан, гадна хананы талбай багатай дөрвөлжин хэлбэр. Зочны өрөө, гал тогоо урд талдаа, унтлагын өрөөнүүд коридороор тусгаарлагдсан.',
             en:'A compact square plan on one level with little exterior wall. Living room and kitchen face the front; bedrooms sit behind a corridor.'},
-      roof:{type:'hip', color:'#2f5d86'}, tags:['oneStorey', 'compact', 'storage'],
+      roof:{type:'hip', color:'#2f5d86', mat:'tile'}, facade:'brick', tags:['oneStorey', 'compact', 'storage'],
       floors:[{rooms:[R('living',0,0,6,5), R('kitchen',6,0,4,5), R('hall',0,5,10,1.5), R('bed',0,6.5,4,3.5), R('bed',4,6.5,3.5,3.5), R('bath',7.5,6.5,2.5,2), R('storage',7.5,8.5,2.5,1.5)]}]
     },
     {
@@ -40,7 +40,7 @@ window.PSP_PLAN_OPTIONS = {
       title:{mn:'Нэг давхар амины сууц, гаражтай', en:'Single-storey house with garage'},
       lead:{mn:'Нэг давхарт 2 унтлагын өрөө, 2 ариун цэврийн өрөөтэй. Гаражаас жижиг үүдний өрөөгөөр дамжин шууд гал тогоо руу орно.',
             en:'Two bedrooms and two bathrooms on one level, with a small mud room linking the garage straight to the kitchen.'},
-      roof:{type:'gable', color:'#55595f'}, tags:['oneStorey', 'garage', 'mudroom', 'twoBaths'],
+      roof:{type:'gable', color:'#2b2d31', mat:'seam'}, facade:'timber', tags:['oneStorey', 'garage', 'mudroom', 'twoBaths'],
       floors:[{rooms:[R('living',0,0,6.5,5), R('kitchen',6.5,0,4,4), R('hall',10.5,0,1.5,4), R('garage',12,0,4,7), R('hall',6.5,4,2,6), R('bed',0,5,4,5), R('bath',4,5,2.5,2.5), R('storage',4,7.5,2.5,2.5), R('bed',8.5,4,3.5,3.5), R('bath',8.5,7.5,3.5,2.5)]}]
     },
     {
@@ -48,7 +48,7 @@ window.PSP_PLAN_OPTIONS = {
       title:{mn:'Хоёр давхар амины сууц, гаражтай', en:'Two-storey house with garage'},
       lead:{mn:'Доод давхарт зочны өрөө, гал тогоо, ажлын өрөө, гараж; дээд давхарт 3 унтлагын өрөө, тагттай. Газрын талбай бага шаардана.',
             en:'Living room, kitchen, study and garage downstairs; three bedrooms and a balcony upstairs. Needs a small plot.'},
-      roof:{type:'hip', color:'#8e3b2e'}, tags:['twoStorey', 'garage', 'balcony', 'study', 'twoBaths'],
+      roof:{type:'hip', color:'#8e3b2e', mat:'tile'}, facade:'auto', tags:['twoStorey', 'garage', 'balcony', 'study', 'twoBaths'],
       floors:[
         {rooms:[R('living',0,0,6,5), R('kitchen',6,0,4,3.5), R('hall',6,3.5,2,3.5), R('bath',8,3.5,2,2), R('storage',8,5.5,2,1.5), R('garage',10,0,4,7), R('study',0,5,4,3), R('hall',4,5,2,3)]},
         {rooms:[R('bed',0,0,4.5,4), R('bed',4.5,0,4,4), R('bath',8.5,0,2.5,2.5), R('hall',0,4,10,1.5), R('bed',0,5.5,5,3.5), R('balcony',5,5.5,3,2), R('storage',8.5,2.5,2.5,1.5)]}
@@ -59,6 +59,7 @@ window.PSP_PLAN_OPTIONS = {
   window.PSP_PLANS.forEach(function(p){
     var d = 'images/plans/' + p.slug + '/';
     p.images = [
+      {src:d + 'persp.jpg', b:{mn:'3D —', en:'3D —'}, cap:{mn:'Хүний нүдний өндрөөс', en:'Eye-level view'}},
       {src:d + 'ext-1.jpg', b:{mn:'3D —', en:'3D —'}, cap:{mn:'Урд, баруун талаас', en:'Front right view'}},
       {src:d + 'ext-2.jpg', b:{mn:'3D —', en:'3D —'}, cap:{mn:'Ар, зүүн талаас', en:'Rear left view'}},
       {src:d + 'front.jpg', b:{mn:'Фасад —', en:'Elevation —'}, cap:{mn:'Урд фасад', en:'Front elevation'}},

diff --git a/planner.html b/planner.html
@@ -100,6 +100,7 @@
             <button type="button" data-vs="realistic" title="Realistic" aria-label="Realistic"><svg viewBox="0 0 24 24"><defs><radialGradient id="rvR" cx=".35" cy=".3" r=".8"><stop offset="0" stop-color="#fff"/><stop offset=".5" stop-color="#d9a066"/><stop offset="1" stop-color="#6b4325"/></radialGradient></defs><circle cx="12" cy="12" r="8" fill="url(#rvR)"/></svg></button>
             <i class="rv-sep"></i>
             <button type="button" id="plShadow" title="Сүүдэр" aria-label="Сүүдэр" data-en-aria="Shadows"><svg viewBox="0 0 24 24"><circle cx="9" cy="8" r="3.2" fill="#f2b33d" stroke="#b9831f"/><path d="M9 2v1.5M9 12.5V14M3 8h1.5M13.5 8H15M4.8 3.8l1 1M12.2 11.2l1 1M4.8 12.2l1-1M12.2 4.8l1-1" stroke="#b9831f" stroke-width="1.2"/><path d="M10 20l4-6h7l-4 6z" fill="#7d8792"/></svg></button>
+            <button type="button" id="plPersp" title="Хүний нүдээр (перспектив)" aria-label="Хүний нүдээр" data-en-aria="Eye-level perspective"><svg viewBox="0 0 24 24"><path d="M2 12s3.6-6 10-6 10 6 10 6-3.6 6-10 6S2 12 2 12z" fill="none" stroke="currentColor" stroke-width="1.4"/><circle cx="12" cy="12" r="3" fill="currentColor"/></svg></button>
             <button type="button" id="plCut" title="Зүсэлт (Section Box)" aria-label="Зүсэлт" data-en-aria="Section box"><svg viewBox="0 0 24 24"><path d="M4 8l8-4 8 4v8l-8 4-8-4z" fill="none" stroke="currentColor" stroke-width="1.2" stroke-dasharray="2 1.5"/><path d="M4 12l8-4 8 4-8 4z" fill="#e8742a" fill-opacity=".85" stroke="#b44f12" stroke-width="1"/></svg></button>
           </div>
         </div>
@@ -132,7 +133,7 @@
           <div class="f"><label for="plRoof" data-en="Roof">Дээвэр</label><select id="plRoof"><option value="auto">Автомат</option><option value="gable">Хоёр налуу</option><option value="hip">Дөрвөн налуу</option><option value="flat">Хавтгай</option></select></div>
           <div class="pl-sw" id="plRoofC" role="group" aria-label="Дээврийн өнгө" data-en-aria="Roof colour"></div>
           <div class="f"><label for="plRoofMat" data-en="Roof material">Дээврийн материал</label><select id="plRoofMat"><option value="seam">Төмөр хавтан</option><option value="tile">Металл ваар</option><option value="shingle">Битум ширгэл</option></select></div>
-          <div class="f"><label for="plFacade" data-en="Facade">Фасад (гадна хана)</label><select id="plFacade"><option value="auto">Автомат</option><option value="plaster">Шавардлага</option><option value="brick">Тоосго</option><option value="wood">Модон өнгөлгөө</option><option value="stone">Чулуун өнгөлгөө</option></select></div>
+          <div class="f"><label for="plFacade" data-en="Facade">Фасад (гадна хана)</label><select id="plFacade"><option value="auto">Автомат</option><option value="plaster">Шавардлага</option><option value="brick">Тоосго</option><option value="wood">Модон өнгөлгөө</option><option value="timber">Хар мод + чулуун булан</option><option value="stone">Чулуун өнгөлгөө</option></select></div>
           <label class="pl-check"><input type="checkbox" id="plPorch" checked><span data-en="Add entrance porch, steps and footpath automatically">Гадна хаалганд довжоо, шат, явган замыг автоматаар нэмэх</span></label>
         </section>
         <section class="pl-card">
@@ -165,6 +166,6 @@
   </div>
 </footer>
 <script src="assets/site.js?v=22"></script>
-<script src="assets/planner.js?v=4"></script>
+<script src="assets/planner.js?v=5"></script>
 </body>
 </html>

diff --git a/assets/plans-ui.js b/assets/plans-ui.js
@@ -7,6 +7,8 @@
   var TAG = {oneStorey:{mn:'Нэг давхар', en:'Single storey'}, twoStorey:{mn:'Хоёр давхар', en:'Two storeys'}, compact:{mn:'Авсаархан', en:'Compact'},
     storage:{mn:'Агуулахтай', en:'Storage room'}, garage:{mn:'Гараж', en:'Garage'}, mudroom:{mn:'Үүдний өрөө', en:'Mud room'}, twoBaths:{mn:'2 АЦӨ', en:'2 bathrooms'},
     balcony:{mn:'Тагт', en:'Balcony'}, study:{mn:'Ажлын өрөө', en:'Home office'}};
+  var RMAT = {seam:{mn:'төмөр хавтан', en:'standing seam metal'}, tile:{mn:'металл ваар', en:'metal tile'}, shingle:{mn:'битум ширгэл', en:'asphalt shingles'}};
+  var FAC = {auto:{mn:'Тоосго + шавардлага', en:'Brick + render'}, plaster:{mn:'Шавардлага', en:'Render'}, brick:{mn:'Тоосго', en:'Brick'}, wood:{mn:'Модон өнгөлгөө', en:'Timber cladding'}, timber:{mn:'Хар мод, чулуун булан', en:'Dark timber, stone corners'}, stone:{mn:'Чулуун өнгөлгөө', en:'Stone cladding'}};
   var ROOF = {gable:{mn:'Хоёр налуу', en:'Gable'}, hip:{mn:'Дөрвөн налуу', en:'Hip'}, flat:{mn:'Хавтгай', en:'Flat'}};
   var S = {
     mn:{m2:'м²', beds:'Унтлагын өрөө', baths:'АЦӨ', floors:'Давхар', garage:'Гараж', yes:'Байгаа', no:'Байхгүй', sample:'Жишээ', onReq:'Үнийн санал авах', from:'-с эхэлнэ',
@@ -119,7 +121,7 @@
       try{ sessionStorage.setItem('psp-plan', JSON.stringify({msg:lines.join('\n'), area:String(Math.round(st.total))})); }catch(x){}
       location.href = 'studio.html#contact';
     }
-    function edit(){ try{ sessionStorage.setItem('psp-load', JSON.stringify({floors:p.floors, roof:p.roof, code:p.code})); }catch(x){} location.href = 'planner.html'; }
+    function edit(){ try{ sessionStorage.setItem('psp-load', JSON.stringify({floors:p.floors, roof:p.roof, facade:p.facade, code:p.code})); }catch(x){} location.href = 'planner.html'; }
     function gallery(){
       var main = document.getElementById('ppMain'), th = document.getElementById('ppThumbs'), im = p.images[gi];
       main.querySelector('img').src = im.src; main.querySelector('img').alt = t(im.cap); document.getElementById('ppCap').textContent = t(im.b) + ' ' + t(im.cap) + '  ·  ' + (gi + 1) + '/' + p.images.length;
@@ -148,7 +150,7 @@
           .concat(st.garage ? [[s('garageA'), fmt(st.garage) + ' ' + s('m2')]] : []).concat(st.balcony ? [[s('balcony'), fmt(st.balcony) + ' ' + s('m2')]] : [])],
         [{mn:'Өрөө', en:'Rooms'}, [[s('beds'), st.beds], [s('baths'), st.baths], [s('garage'), st.garage ? s('yes') : s('no')]]],
         [{mn:'Хэмжээ', en:'Dimensions'}, [[s('floors'), st.floors], [s('w'), fmt(st.w) + ' м'], [s('d'), fmt(st.d) + ' м'], [s('h'), '≈ ' + fmt(st.height) + ' м'], [s('fh'), '3.0 м']]],
-        [{mn:'Дээвэр ба суурь', en:'Roof and foundation'}, [[s('roof'), t(ROOF[p.roof.type])], [s('pitch'), p.roof.type === 'flat' ? '—' : '30°'], [s('found'), OPT.foundations.map(t).join(', ')]]]
+        [{mn:'Дээвэр ба суурь', en:'Roof and foundation'}, [[s('roof'), t(ROOF[p.roof.type]) + (p.roof.mat ? ', ' + t(RMAT[p.roof.mat]) : '')], [P.lang === 'en' ? 'Facade' : 'Фасад', t(FAC[p.facade || 'auto'])], [s('pitch'), p.roof.type === 'flat' ? '—' : '30°'], [s('found'), OPT.foundations.map(t).join(', ')]]]
       ];
       blocks.forEach(function(bk){ var d = el('div', 'ppspec', null, sp); el('h3', null, t(bk[0]), d); var dl = el('dl', null, null, d);
         bk[1].forEach(function(row){ var r = el('div', null, null, dl); el('dt', null, row[0], r); el('dd', null, String(row[1]), r); }); });

diff --git a/plan.html b/plan.html
@@ -88,7 +88,7 @@
   </div>
 </footer>
 <script src="assets/site.js?v=22"></script>
-<script src="assets/plans.js?v=1"></script>
-<script src="assets/plans-ui.js?v=1"></script>
+<script src="assets/plans.js?v=2"></script>
+<script src="assets/plans-ui.js?v=2"></script>
 </body>
 </html>

diff --git a/plans.html b/plans.html
@@ -74,7 +74,7 @@
   </div>
 </footer>
 <script src="assets/site.js?v=22"></script>
-<script src="assets/plans.js?v=1"></script>
-<script src="assets/plans-ui.js?v=1"></script>
+<script src="assets/plans.js?v=2"></script>
+<script src="assets/plans-ui.js?v=2"></script>
 </body>
 </html>
